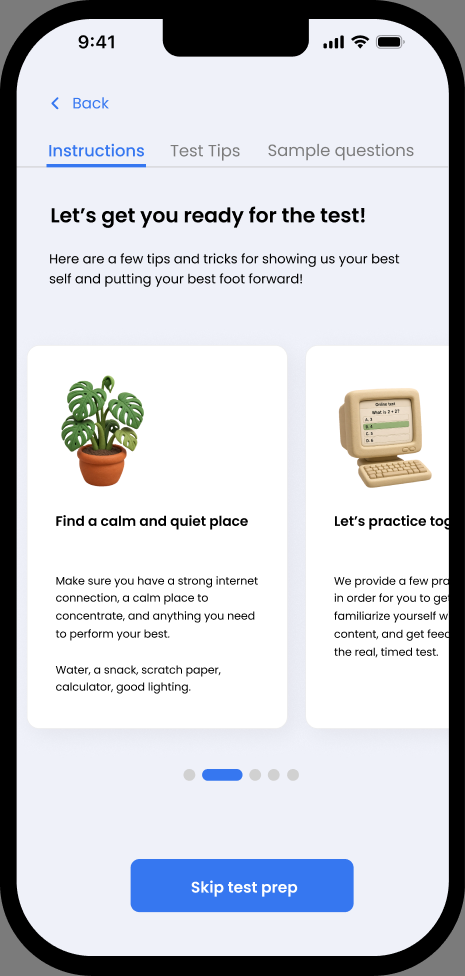
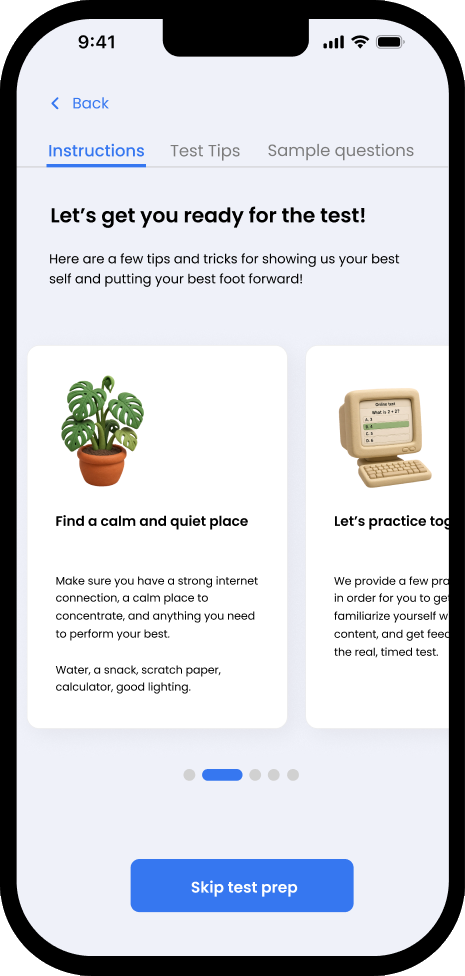
Show the first card phone without the placeholder frame.
The device sits on a transparent backdrop with a light shadow, and the full bezel stays visible.

diff --git a/src/app/globals.css b/src/app/globals.css
@@ -648,6 +648,21 @@ body {
   border-radius: 27px;
 }
 
+#project-1 .project-slot {
+  background: transparent;
+  border: 0;
+  border-radius: 0;
+  overflow: visible;
+  padding: 16px 12px 20px;
+}
+
+#project-1 .project-slot img {
+  object-fit: contain;
+  object-position: center;
+  border-radius: 0;
+  filter: drop-shadow(0 8px 14px rgba(0, 0, 0, 0.2));
+}
+
 .project-cta-row {
   position: absolute;
   right: 387px;
